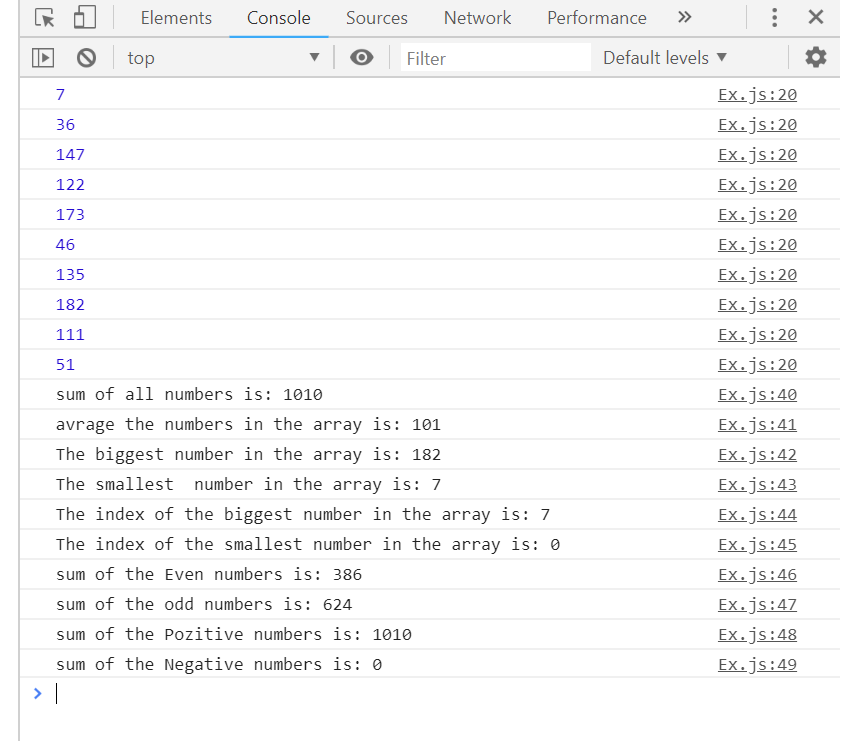
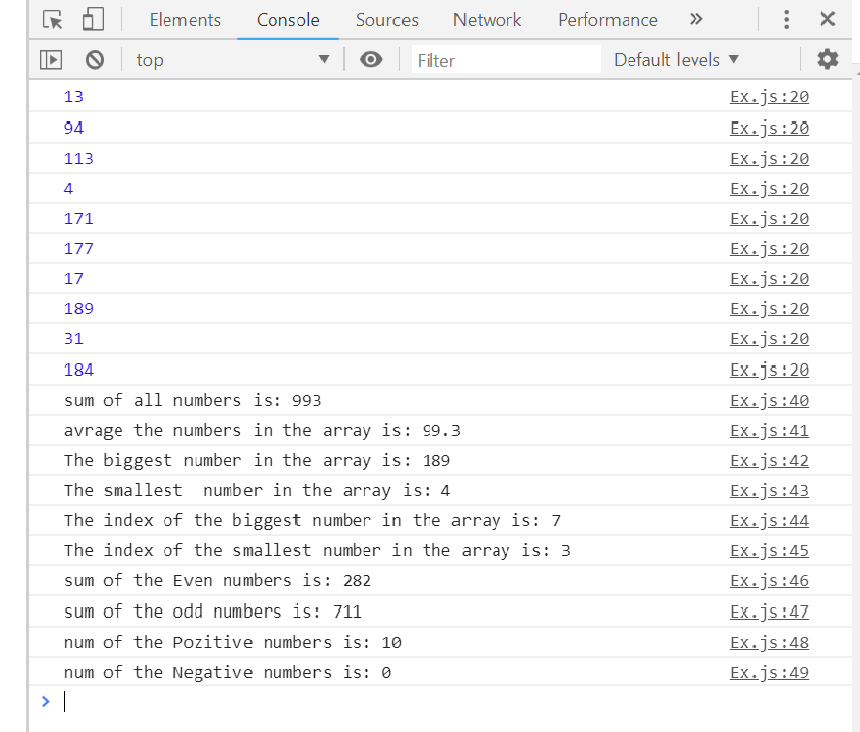
exercise HW

Changed region(s): [[0.0, 0.0, 1.0, 1.0]]

diff --git a/15-12-18/Ex.ts b/15-12-18/Ex.ts
@@ -7,8 +7,8 @@ var bigIndex: number=0;
 var smallIndex: number=0;
 var sumEvenNun: number=0;
 var sumOddNum: number=0;
-var sumPozitiveNum: number=0;
-var sumNegativeNum: number=0;
+var numPozitiveNum: number=0;
+var numNegativeNum: number=0;
                                    //---- define the array----
 var array :number[]= new Array<number>(10);
 for (let index = 0; index < array.length; index++) {
@@ -30,9 +30,9 @@ for (let index = 0; index < array.length; index++) {
     if(array[index]%2==1)
     sumOddNum+=array[index];
     if(array[index]>0)
-    sumPozitiveNum+=array[index];
+    numPozitiveNum++;
     if(array[index]==0)
-    sumNegativeNum+=array[index];
+    numNegativeNum++;
  }
                             //---- print all data----   
  console.log(`sum of all numbers is: ${sum}`);
@@ -43,8 +43,8 @@ for (let index = 0; index < array.length; index++) {
  console.log(`The index of the smallest number in the array is: ${smallIndex}`);
  console.log(`sum of the Even numbers is: ${sumEvenNun}`);
  console.log(`sum of the odd numbers is: ${sumOddNum}`);
- console.log(`sum of the Pozitive numbers is: ${sumPozitiveNum}`);
- console.log(`sum of the Negative numbers is: ${sumNegativeNum}`);
+ console.log(`num of the Pozitive numbers is: ${numPozitiveNum}`);
+ console.log(`num of the Negative numbers is: ${numNegativeNum}`);
 
 
 

diff --git a/15-12-18/Ex.js b/15-12-18/Ex.js
@@ -7,8 +7,8 @@ var bigIndex = 0;
 var smallIndex = 0;
 var sumEvenNun = 0;
 var sumOddNum = 0;
-var sumPozitiveNum = 0;
-var sumNegativeNum = 0;
+var numPozitiveNum = 0;
+var numNegativeNum = 0;
 //---- define the array----
 var array = new Array(10);
 for (var index = 0; index < array.length; index++) {
@@ -32,9 +32,9 @@ for (var index = 0; index < array.length; index++) {
     if (array[index] % 2 == 1)
         sumOddNum += array[index];
     if (array[index] > 0)
-        sumPozitiveNum += array[index];
+        numPozitiveNum++;
     if (array[index] == 0)
-        sumNegativeNum += array[index];
+        numNegativeNum++;
 }
 //---- print all data----   
 console.log("sum of all numbers is: " + sum);
@@ -45,5 +45,5 @@ console.log("The index of the biggest number in the array is: " + bigIndex);
 console.log("The index of the smallest number in the array is: " + smallIndex);
 console.log("sum of the Even numbers is: " + sumEvenNun);
 console.log("sum of the odd numbers is: " + sumOddNum);
-console.log("sum of the Pozitive numbers is: " + sumPozitiveNum);
-console.log("sum of the Negative numbers is: " + sumNegativeNum);
+console.log("num of the Pozitive numbers is: " + numPozitiveNum);
+console.log("num of the Negative numbers is: " + numNegativeNum);
